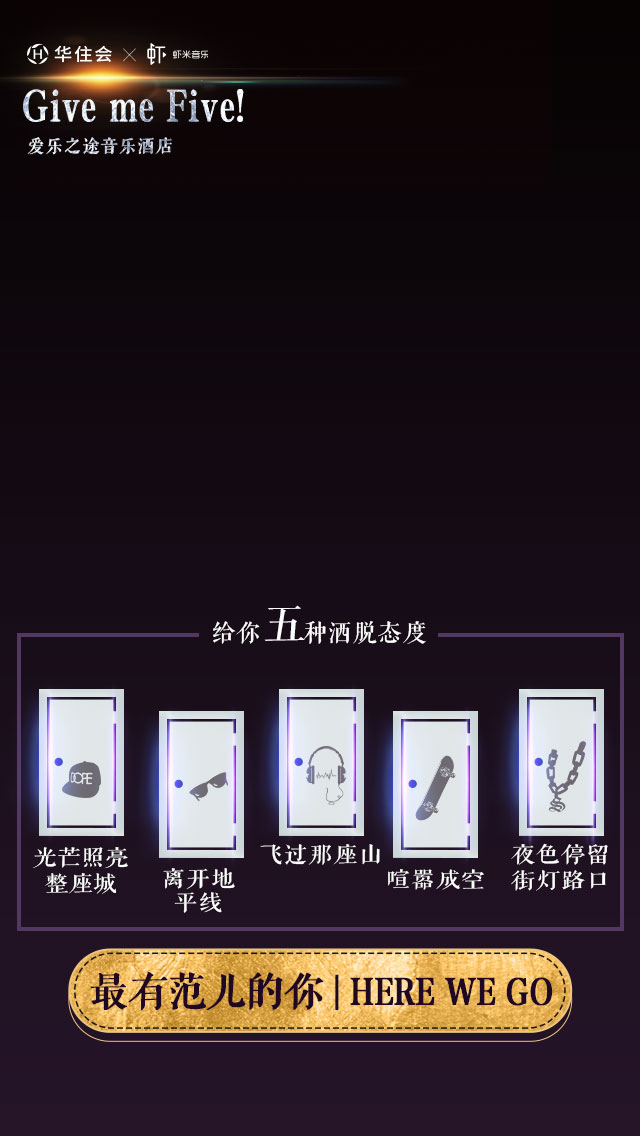
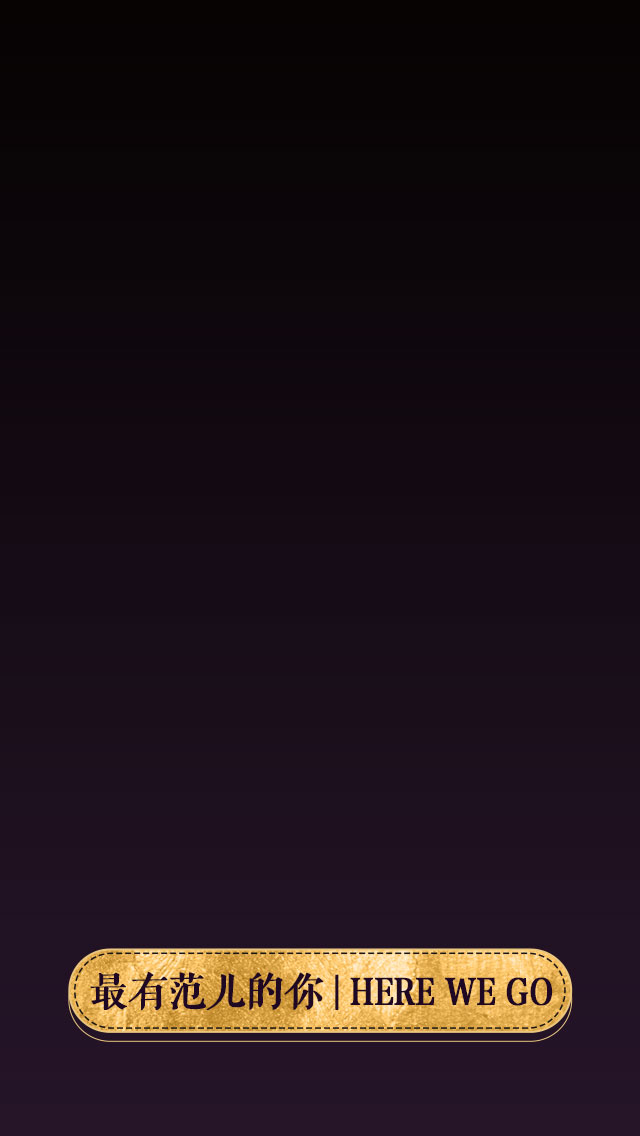
复原layer

Changed region(s): [[0.0, 0.5238, 1.0, 0.8319], [0.0312, 0.0308, 0.5312, 0.154], [0.3438, 0.5238, 0.4062, 0.5854]]

diff --git a/index.html b/index.html
@@ -80,25 +80,50 @@
         <div class="clickMsg">
             <img src="img/chickmsg_04.png" alt="">
         </div>
-
-
-        <div class="pScene" id="pScene" class="" data-limit-y="0" data-scalar-x="60" style="position: absolute;width: 100%;height: 100%;">
-            <div  class="ar_item_1" id="ar_item_1" data-depth="0.20"></div>
-            <div  class="ar_item_2" id="ar_item_2" data-depth="0.25"></div>
-            <div  class="ar_item_3" id="ar_item_3" data-depth="0.30"></div>
-        </div>
+    </div>
+    <div class="pScene" id="pScene" class="" data-limit-y="0" data-scalar-x="60" style="position: absolute;width: 100%;height: 100%;">
+        <div  class="ar_item_1" id="ar_item_1"></div>
+        <div  class="ar_item_2" id="ar_item_2"></div>
+        <div  class="ar_item_3" id="ar_item_3"></div>
     </div>
     <div class="layer layer_1">
         <img data-depth="0.00" src="img/layer/txt_1.png">
         <img data-depth="0.20" src="img/layer/obj_1.png">
+        <img class="logo" src="img/layer/logo1.png">
+        <img class="light" src="img/layer/light.png">
+        <img class="door" src="img/layer/door1.png">
+        <div class="lights">
+          <img src="img/layer/light1.png" alt="">
+          <img src="img/layer/light1.png" alt="">
+          <img src="img/layer/light1.png" alt="">
+        </div>
     </div>
     <div class="layer layer_2">
         <img data-depth="0.00" src="img/layer/txt_2.png">
         <img data-depth="0.20" src="img/layer/obj_2.png">
+        <img class="logo" src="img/layer/logo2.png">
+        <img class="light" src="img/layer/light.png">
+        <img class="door" src="img/layer/door2.png">
+        <div class="lights">
+          <img src="img/layer/light2.png" alt="">
+          <img src="img/layer/light2.png" alt="">
+          <img src="img/layer/light2.png" alt="">
+          <img src="img/layer/light2.png" alt="">
+        </div>
     </div>
     <div class="layer layer_3">
         <img data-depth="0.00" src="img/layer/txt_3.png">
         <img data-depth="0.20" src="img/layer/obj_3.png">
+        <img class="logo" src="img/layer/logo3.png">
+        <img class="light" src="img/layer/light.png">
+        <img class="door" src="img/layer/door3.png">
+        <div class="lights">
+          <img src="img/layer/light3.png" alt="">
+          <img src="img/layer/light3.png" alt="">
+          <img src="img/layer/light3.png" alt="">
+          <img src="img/layer/light3.png" alt="">
+          <img src="img/layer/light3.png" alt="">
+        </div>
     </div>
     <div class="music_play"><img src="img/music_play_03.png"></div>
     <div class="huazhu_logo">
@@ -120,6 +145,18 @@
   var parallax = new Parallax(scene_3, {
     pointerEvents: true,
   });
+  $('#ar_item_1').click(function(){
+    $('.layer_1').fadeIn();
+  })
+  $('#ar_item_2').click(function(){
+    $('.layer_2').fadeIn();
+  })
+  $('#ar_item_3').click(function(){
+    $('.layer_3').fadeIn();
+  })
+  $('.layer').click(function(){
+    // window.location.href="http://m.huazhu.com/Hotel/Detail?hotelId=1000202";
+  })
   function size() {
     var _screenWidth = document.documentElement.clientWidth < 300 ? 300 : document.documentElement.clientWidth,
       _UIWidth = 750,
@@ -223,10 +260,10 @@
       preventString(event);
     })
     //持续拖动
-    var scene = $('#pScene').get(0)
-    var parallax = new Parallax(scene,{
-      pointerEvents: true,
-    });
+    // var scene = $('#pScene').get(0)
+    // var parallax = new Parallax(scene,{
+    //   pointerEvents: true,
+    // });
     touchIcon.addEventListener("touchend",function (event) {
       console.log("拖动距离", touchObj.touchY,'最大可拖动距离',maxCoundTouch);
       //设置最大偏移误差为10px
@@ -235,6 +272,7 @@
 //        $()
         $("#mainBar").fadeOut(800);
         $("#arScene").fadeIn(800);
+        $("#pScene").show();
       }else{
         console.log("重新拖动")
         $(touchIcon).css("transform","translateY("+0+"px)");

diff --git a/css/main.css b/css/main.css
@@ -25,6 +25,9 @@
 .arScene .clickMsg img{
     width:100%;
 }
+.pScene{
+    display:none;
+}
 .mainBar{
     width:100%;
     height: 100%;
@@ -359,7 +362,7 @@
     background-size: 100% auto;
     background-position:0 -0.25rem;
     overflow:hidden;
-    z-index:18;
+    z-index:22;
 }
 .layer *{
     position:absolute;
@@ -370,6 +373,12 @@
 }
 .layer img:nth-of-type(2){
     left: auto !important;
+}
+.layer .door{
+    width: 94%;
+    bottom: 3rem;
+    top: auto !important;
+    left: 3% !important;
 }
 .layer_1{
     background-image:url("../img/layer/bg_1.jpg");
